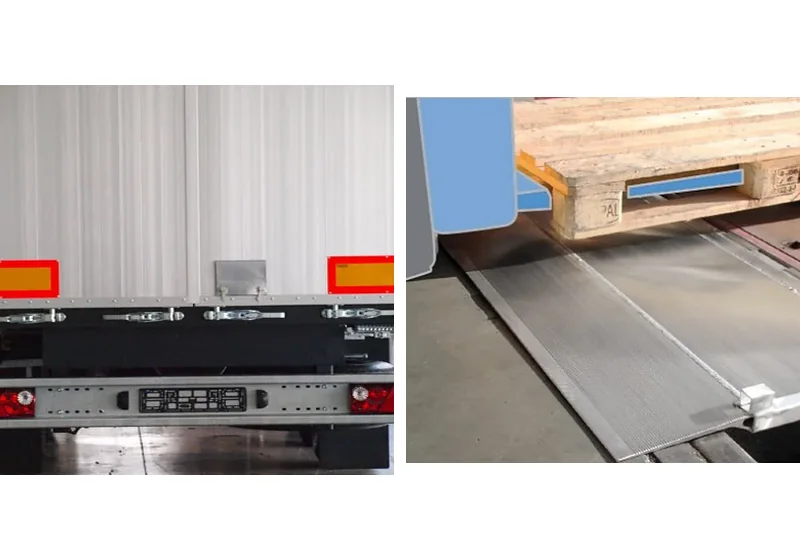
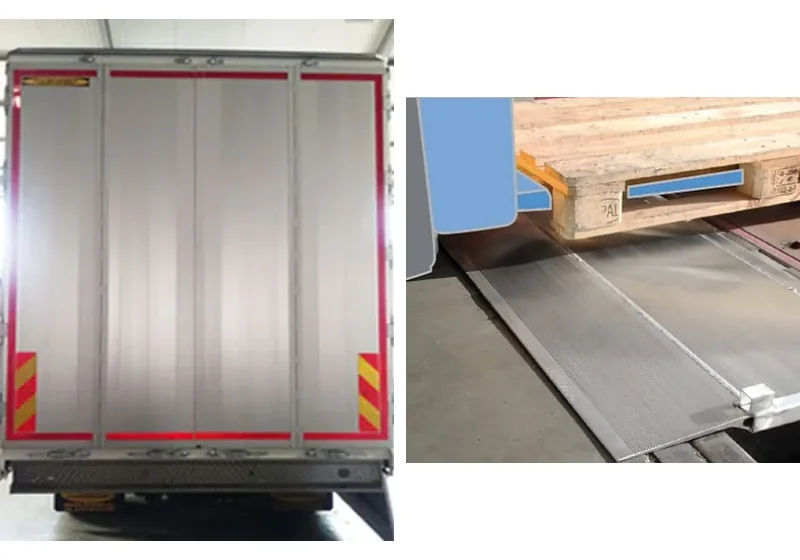
Hátsó ajtók csoportkép: a piros szegélyes 4 szárnyú ajtó és az áthajtó rámpa
Claude-Session: https://claude.ai/code/session_01GqcGcrqDWYvNfyrVUkczEM

diff --git a/scripts/csoportkepek.py b/scripts/csoportkepek.py
@@ -37,8 +37,8 @@ PHOTOS = {
     "csuszasmentes-retegelt-padlo": ["cover", "../data/forras/retegelt_csuszasmentes_csoportkep.png"],
     # a Quadris által küldött kép, a feliratos doboz előtt levágva
     "kedergumik": ["cover", "../data/forras/kedergumi_csoportkep.png"],
-    # a Quadris kérésére: a 2 szárnyú hátsó ajtó és az áthajtó rámpa fotója egymás mellett
-    "hatso-ajtok-es-athajto-rampak": ["pair", "termekkepek/hatso-ajto-alu-elox-foto.webp", "termekkepek/athajto-rampa-foto.webp"],
+    # a Quadris kérésére: a piros szegélyes 4 szárnyú hátsó ajtó és az áthajtó rámpa fotója egymás mellett
+    "hatso-ajtok-es-athajto-rampak": ["pair", "termekkepek/hatso-ajto-alu-elox-4-szarnyu-foto.webp", "termekkepek/athajto-rampa-foto.webp"],
     "italszallito-kit": ["termekkepek/212427-ada-s-ajto-profil-2100-mm-elox-1.webp"],
 }
 
